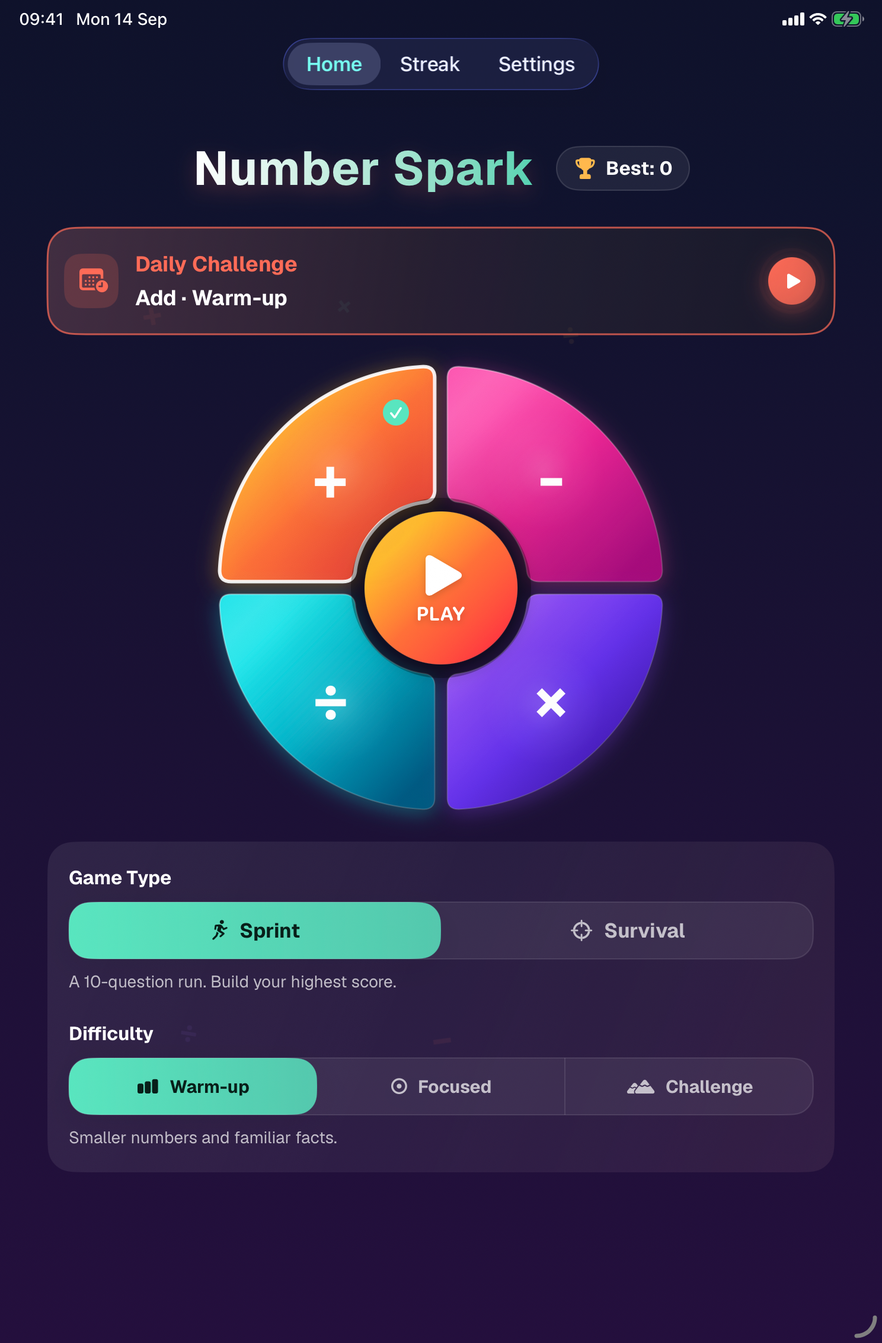
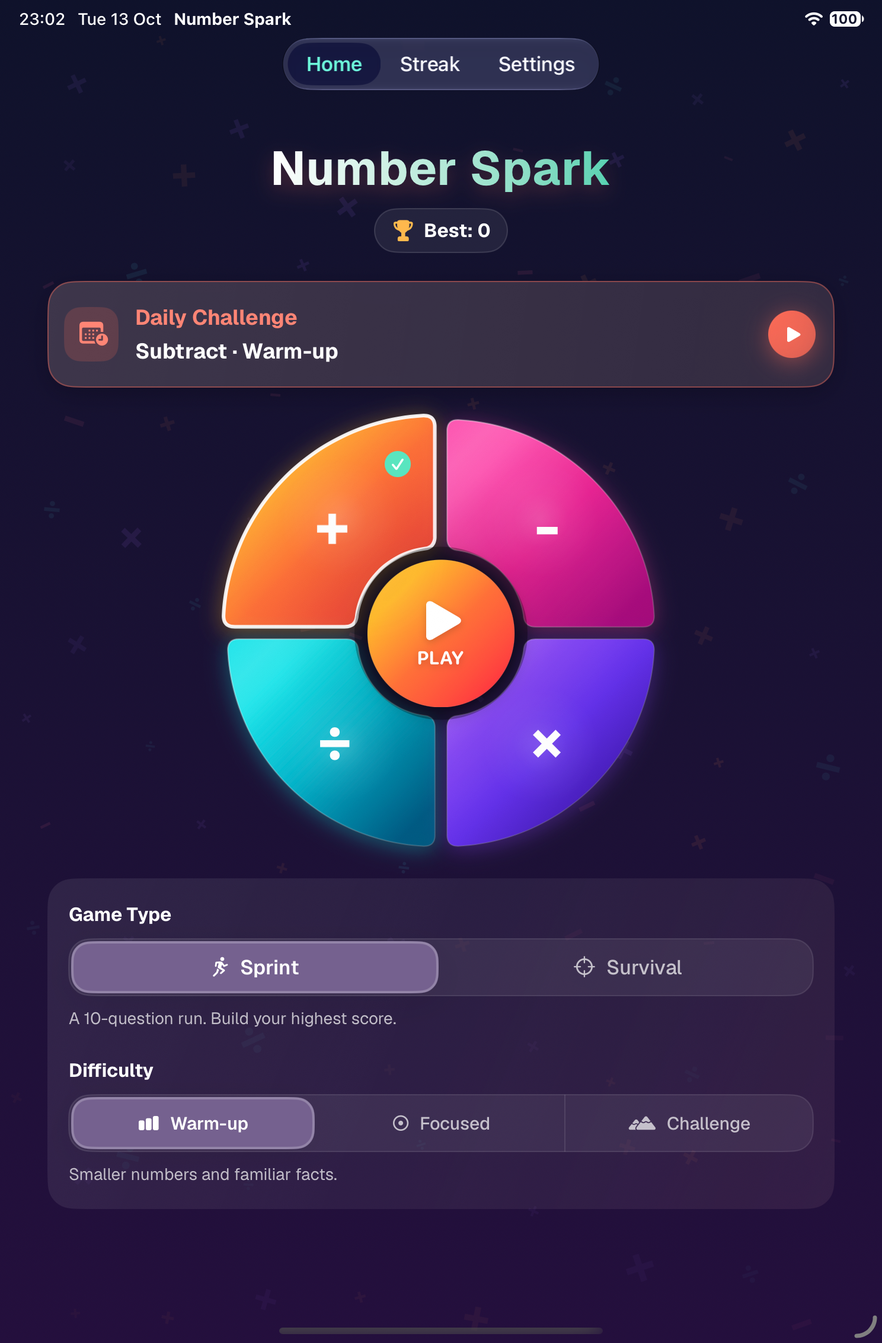
Update Number Spark 1.5 screenshots and metadata

diff --git a/number-circuit/index.html b/number-circuit/index.html
@@ -3,9 +3,9 @@
 <head>
 <meta charset="UTF-8">
 <meta name="viewport" content="width=device-width, initial-scale=1.0">
-<title>Number Spark: Math Puzzle</title>
+<title>Number Spark: Math Puzzles</title>
 <link rel="stylesheet" href="../style.css?v=20260910">
-<meta name="description" content="Make mental math part of your day with Number Spark: Math Puzzle for iPhone and iPad.">
+<meta name="description" content="Make mental math part of your day with Number Spark: Math Puzzles for iPhone and iPad.">
 <link rel="icon" href="../icon.png">
 </head>
 <body class="detail-circuit">
@@ -14,13 +14,13 @@
   <a class="back-link" href="../index.html">&larr; All apps</a>
 
   <div class="app-id">
-    <img src="icon.png" alt="Number Spark: Math Puzzle icon">
+    <img src="icon.png" alt="Number Spark: Math Puzzles icon">
     <div class="name">
-      <strong>Number Spark: Math Puzzle</strong>
+      <strong>Number Spark: Math Puzzles</strong>
     </div>
   </div>
 
-  <h1>Number Spark: Math Puzzle</h1>
+  <h1>Number Spark: Math Puzzles</h1>
   <p class="tagline">Make mental math part of your day.</p>
 
   <div class="download-cta">
@@ -36,50 +36,59 @@
 
   <div data-screenshot-gallery>
     <div class="screenshots" data-device="iPhone" aria-label="iPhone screenshots">
-      <img src="metadata/screenshots/iphone/app-store/01-themes.png" alt="Number Spark: Math Puzzle iPhone App Store image: Make It Yours — three themes" loading="lazy">
-      <img src="metadata/screenshots/iphone/app-store/02-daily-challenge.png" alt="Number Spark: Math Puzzle iPhone App Store image: A Challenge Every Day" loading="lazy">
-      <img src="metadata/screenshots/iphone/app-store/03-mental-math.png" alt="Number Spark: Math Puzzle iPhone App Store image: Make Mental Math Fun" loading="lazy">
-      <img src="metadata/screenshots/iphone/app-store/04-personal-best.png" alt="Number Spark: Math Puzzle iPhone App Store image: Chase Your Best" loading="lazy">
-      <img src="metadata/screenshots/iphone/app-store/05-choose-challenge.png" alt="Number Spark: Math Puzzle iPhone App Store image: Find Your Challenge" loading="lazy">
-      <img src="metadata/screenshots/iphone/app-store/06-daily-streak.png" alt="Number Spark: Math Puzzle iPhone App Store image: Build Your Daily Streak" loading="lazy">
+      <img src="metadata/screenshots/iphone/01-home.png" alt="Number Spark iPhone: Home with Daily Challenge, operation selector, game modes, and difficulty" loading="lazy">
+      <img src="metadata/screenshots/iphone/02-gameplay.png" alt="Number Spark iPhone: timed multiplication gameplay with answer keypad" loading="lazy">
+      <img src="metadata/screenshots/iphone/03-results.png" alt="Number Spark iPhone: Results with score, answer review, and replay" loading="lazy">
+      <img src="metadata/screenshots/iphone/04-streak.png" alt="Number Spark iPhone: Daily Streak calendar" loading="lazy">
+      <img src="metadata/screenshots/iphone/05-pleasant.png" alt="Number Spark iPhone: Home in the Pleasant theme, included with Pro" loading="lazy">
+      <img src="metadata/screenshots/iphone/06-minimal.png" alt="Number Spark iPhone: Home in the Minimal theme, included with Pro" loading="lazy">
     </div>
     <div class="screenshots" data-device="iPad" aria-label="iPad screenshots">
-      <img src="metadata/screenshots/ipad/app-store/01-themes.png" alt="Number Spark: Math Puzzle iPad App Store image: Make It Yours — three themes" loading="lazy">
-      <img src="metadata/screenshots/ipad/app-store/02-daily-challenge.png" alt="Number Spark: Math Puzzle iPad App Store image: A Challenge Every Day" loading="lazy">
-      <img src="metadata/screenshots/ipad/app-store/03-mental-math.png" alt="Number Spark: Math Puzzle iPad App Store image: Make Mental Math Fun" loading="lazy">
-      <img src="metadata/screenshots/ipad/app-store/04-personal-best.png" alt="Number Spark: Math Puzzle iPad App Store image: Chase Your Best" loading="lazy">
-      <img src="metadata/screenshots/ipad/app-store/05-choose-challenge.png" alt="Number Spark: Math Puzzle iPad App Store image: Find Your Challenge" loading="lazy">
-      <img src="metadata/screenshots/ipad/app-store/06-daily-streak.png" alt="Number Spark: Math Puzzle iPad App Store image: Build Your Daily Streak" loading="lazy">
+      <img src="metadata/screenshots/ipad/01-home.png" alt="Number Spark iPad: Home with Daily Challenge, operation selector, game modes, and difficulty" loading="lazy">
+      <img src="metadata/screenshots/ipad/02-gameplay.png" alt="Number Spark iPad: timed multiplication gameplay with answer keypad" loading="lazy">
+      <img src="metadata/screenshots/ipad/03-results.png" alt="Number Spark iPad: Results with score, answer review, and replay" loading="lazy">
+      <img src="metadata/screenshots/ipad/04-streak.png" alt="Number Spark iPad: Daily Streak calendar" loading="lazy">
+      <img src="metadata/screenshots/ipad/05-pleasant.png" alt="Number Spark iPad: Home in the Pleasant theme, included with Pro" loading="lazy">
+      <img src="metadata/screenshots/ipad/06-minimal.png" alt="Number Spark iPad: Home in the Minimal theme, included with Pro" loading="lazy">
+    </div>
+    <div class="screenshots" data-device="iPhone Duo" aria-label="iPhone Duo screenshots">
+      <img src="metadata/screenshots/duo/01-home-vibrant.png" alt="Number Spark iPhone Duo: closed display: Home in Vibrant" loading="lazy">
+      <img src="metadata/screenshots/duo/02-home-pleasant.png" alt="Number Spark iPhone Duo: closed display: Home in Pleasant, included with Pro" loading="lazy">
+      <img src="metadata/screenshots/duo/03-home-minimal.png" alt="Number Spark iPhone Duo: closed display: Home in Minimal, included with Pro" loading="lazy">
+      <img src="metadata/screenshots/duo/04-gameplay.png" alt="Number Spark iPhone Duo: open landscape display: multiplication gameplay and keypad" loading="lazy">
+      <img src="metadata/screenshots/duo/05-results.png" alt="Number Spark iPhone Duo: open landscape display: Results and answer review" loading="lazy">
+      <img src="metadata/screenshots/duo/06-partial-home.png" alt="Number Spark iPhone Duo: partially folded landscape display: Home in Pleasant" loading="lazy">
+      <img src="metadata/screenshots/duo/07-streak.png" alt="Number Spark iPhone Duo: open portrait display: Daily Streak calendar" loading="lazy">
     </div>
   </div>
 
   <section>
-    <h2>About Number Spark: Math Puzzle</h2>
-    <p>Number Spark: Math Puzzle appears as <strong>Number Spark</strong> on your device. Make addition, subtraction, multiplication, and division part of your day with quick, repeatable challenges.</p>
+    <h2>About Number Spark: Math Puzzles</h2>
+    <p>Number Spark: Math Puzzles appears as <strong>Number Spark</strong> on your device. Make addition, subtraction, multiplication, and division part of your day with quick, repeatable challenges.</p>
   </section>
 
   <section>
     <h2>Features</h2>
     <p><strong>Make It Yours:</strong> Play with bold Vibrant colors, calm Pleasant greens, or a clean Minimal look that follows your device&#x27;s Light and Dark Mode. Vibrant is included with free play; Pleasant and Minimal are included with the optional one-time Pro unlock.</p>
-    <p><strong>A Challenge Every Day:</strong> Get a personalized Daily Challenge based on your recent play. Track completed days in your calendar, build your daily streak, and catch up on challenges you missed. Turn on an optional reminder in Settings and choose a time that suits you. Daily progress is personal and stays on your device.</p>
+    <p><strong>A Challenge Every Day:</strong> Get a varied, personalized Daily Challenge based on your recent answers and practice history. See why its operation and difficulty were chosen before you start. Each day keeps the same challenge when you return, and missed days stay available for catch-up. Track completed days, build your streak, and turn on an optional reminder that skips completed days. Daily progress is personal and stays on your device.</p>
     <p><strong>Two Ways To Play:</strong> Sprint: take on a 10-question run against the clock.<br>Survival: keep going as the time allowed for each question gets shorter.</p>
     <p><strong>Find Your Challenge:</strong> Practice all four operations at Warm-up, Focused, or Challenge difficulty. Choose a comfortable starting point or push yourself with tougher numbers.</p>
-    <p><strong>Chase Your Best:</strong> Earn bonuses for quick answers and consecutive correct answers. Track your best scores for each operation, mode, and difficulty, then review your answers after each run. Three hearts give you room to recover, and mistakes reveal the correct answer.</p>
-    <p><strong>Made for iPhone and iPad:</strong> Play with layouts that adapt to your screen and available window. Use the on-screen keypad or a hardware keyboard, and adjust haptic feedback in Settings.</p>
+    <p><strong>Chase Your Best:</strong> Earn bonuses for quick answers and consecutive correct answers. Track your best scores for each operation, mode, and difficulty, then review your answers after each run. Celebrate perfect runs, new bests, and daily completions with lively visual feedback. Three hearts give you room to recover, and mistakes reveal the correct answer.</p>
+    <p><strong>Made for iPhone and iPad:</strong> Play with layouts that adapt to your screen and available window, including partially folded iPhone Duo displays. Use the on-screen keypad or a hardware keyboard, and adjust haptic feedback in Settings.</p>
     <p><strong>Optional Game Center:</strong> Compare regular Sprint and Survival scores on Game Center leaderboards. Daily Challenges remain personal, and you can play without Game Center.</p>
     <p><strong>Free Daily Play:</strong> Start with five free runs per day. The optional one-time Number Spark Pro purchase unlocks unlimited play and the Pleasant and Minimal themes. No subscription. Optional tips support development and do not unlock features.</p>
   </section>
 
   <section>
     <h2>Frequently asked questions</h2>
-    <details><summary>Why does the app say Number Spark?</summary><p>Number Spark: Math Puzzle is the App Store name. On your device and inside the app, it is called Number Spark.</p></details>
+    <details><summary>Why does the app say Number Spark?</summary><p>Number Spark: Math Puzzles is the App Store name. On your device and inside the app, it is called Number Spark.</p></details>
     <details><summary>Is it free to play?</summary><p>You get five free runs per local calendar day, shared across regular runs, Daily Challenges, catch-up, and replays. The allowance resets each day.</p></details>
     <details><summary>What does Number Spark Pro include?</summary><p>The optional one-time purchase unlocks unlimited play and the Pleasant and Minimal themes. Vibrant is included with free play. There is no subscription; optional tips support development and do not unlock features.</p></details>
     <details><summary>Do I need an account or internet connection?</summary><p>No account is required for local gameplay, which works offline. Purchases, restoring purchases, and optional Game Center services use Apple services.</p></details>
     <details><summary>How do Sprint and Survival work?</summary><p>Sprint is a 10-question run. Survival keeps going as the time allowed for each question gets shorter. A wrong answer or timeout costs one of three hearts and reveals the correct answer.</p></details>
-    <details><summary>Can I catch up on missed Daily Challenges?</summary><p>Yes. Open the Streak tab and select a past day to catch up. Daily Challenges use your recent play to choose an operation and difficulty. Completed days count toward your streak, and daily results stay personal rather than going to leaderboards.</p></details>
-    <details><summary>How do Daily Challenge reminders work?</summary><p>In Settings, turn on Daily Challenge Reminder and choose a local time. The reminder is optional and scheduled on your device; you can turn it off at any time. iOS asks for notification permission only when you opt in.</p></details>
-    <details><summary>Does it work on iPad?</summary><p>Yes. Layouts adapt to iPhone, iPad, and the available window. You can use the on-screen keypad or a hardware keyboard.</p></details>
+    <details><summary>Can I catch up on missed Daily Challenges?</summary><p>Yes. Open the Streak tab and select a past day to catch up. Daily Challenges use your recent answers and practice history to choose an operation and difficulty. Open a day to see why its challenge was chosen; it stays the same when you return. Completed days count toward your streak, and daily results stay personal rather than going to leaderboards.</p></details>
+    <details><summary>How do Daily Challenge reminders work?</summary><p>In Settings, turn on Daily Challenge Reminder and choose a local time. The reminder is optional and scheduled on your device. Completing today’s challenge before delivery skips that day’s reminder. You can turn reminders off at any time. iOS asks for notification permission only when you opt in.</p></details>
+    <details><summary>Does it work on iPad?</summary><p>Yes. Layouts adapt to iPhone, iPad, and the available window, including partially folded iPhone Duo displays. You can use the on-screen keypad or a hardware keyboard.</p></details>
     <details><summary>Are there ads or tracking?</summary><p>There are no ads, analytics, or tracking SDKs. Scores, daily history, and settings stay locally on your device. Apple handles purchases and optional Game Center services.</p></details>
   </section>
 
@@ -90,7 +99,7 @@
   </nav>
 
   <footer>
-    Number Spark: Math Puzzle · &copy; <span id="year"></span>
+    Number Spark: Math Puzzles · &copy; <span id="year"></span>
   </footer>
 
 </div>

diff --git a/index.html b/index.html
@@ -1,10 +1,10 @@
 <!DOCTYPE html>
-<html lang="en"><head><meta charset="UTF-8"><meta name="viewport" content="width=device-width, initial-scale=1.0"><meta name="description" content="Independent apps by Srinivas. Sharpen your mental math with Number Spark: Math Puzzle and make sense of everyday spending with Spendra."><meta name="theme-color" content="#f8faf8"><title>Srinivas’s App Lab — Apps worth a tap.</title><link rel="icon" href="icon.png"><link rel="stylesheet" href="style.css?v=20260910-1"></head>
+<html lang="en"><head><meta charset="UTF-8"><meta name="viewport" content="width=device-width, initial-scale=1.0"><meta name="description" content="Independent apps by Srinivas. Sharpen your mental math with Number Spark: Math Puzzles and make sense of everyday spending with Spendra."><meta name="theme-color" content="#f8faf8"><title>Srinivas’s App Lab — Apps worth a tap.</title><link rel="icon" href="icon.png"><link rel="stylesheet" href="style.css?v=20260910-1"></head>
 <body class="portfolio"><a class="skip-link" href="#main">Skip to content</a>
 <header class="site-header shell"><div class="wordmark"><span class="brand-mark" aria-hidden="true"><span>a</span><svg viewBox="0 0 16 16" focusable="false"><path d="M4 12 12 4m-6 0h6v6"/></svg></span>app lab<span class="byline">by Srinivas</span></div><nav aria-label="Main navigation"><a href="#apps">The apps <span class="nav-count">02</span></a><a href="support.html">Support ↗</a></nav></header>
 <main id="main" class="shell"><section class="hero" aria-labelledby="hero-title"><div class="eyebrow">INDEPENDENTLY BUILT. THOUGHTFULLY MADE.</div><div class="hero-row"><h1 id="hero-title">Apps worth<br>a <span class="tap-word">tap.</span></h1><div class="hero-aside"><p>A little more focus.<br>A little less friction.<br>Apps for your everyday.</p><a class="round-link" href="#apps"><span>Find your next favorite</span><span class="circle-arrow" aria-hidden="true">↓</span></a></div></div></section>
 <section id="apps" class="collection" aria-labelledby="collection-title"><div class="section-label"><h2 id="collection-title">THE COLLECTION <span>/ 02</span></h2><span>Small apps. Big on the details.</span></div><ul class="app-grid">
-<li class="app-card circuit-card"><a class="card-link" href="number-circuit/index.html" aria-label="Explore Number Spark: Math Puzzle"></a><div class="card-top"><span class="category">PLAY · MENTAL MATH</span><span class="badge">New release</span></div><div class="card-intro"><div class="app-icon-wrap"><img class="app-icon" src="number-circuit/icon.png" alt="Number Spark: Math Puzzle icon" width="72" height="72"><a class="store-pill" href="https://apps.apple.com/app/id6809030586" aria-label="Get Number Spark: Math Puzzle on the App Store"><svg viewBox="0 0 384 512" aria-hidden="true"><path d="M318.7 268.7c-.2-36.7 16.4-64.4 50-84.8-18.8-26.9-47.2-41.7-84.7-44.6-35.5-2.8-74.3 20.7-88.5 20.7-15 0-49.4-19.7-76-19.7C63.3 141 4 184.8 4 273.5q0 39.3 14.4 81.2c12.8 36.7 59 126.7 107.2 125.2 25.2-.6 43-17.9 75.8-17.9 31.8 0 48.3 17.9 76.4 17.9 48.6-.7 90.4-82.5 102.6-119.3-65.2-30.7-61.7-90-61.7-91.9zm-56.6-164.2c27.3-32.4 24.8-61.9 24-72.5-24.1 1.4-52 16.4-67.9 34.9-17.5 19.8-27.8 44.3-25.6 71.9 26.1 2 49.9-11.4 69.5-34.3z"/></svg><span>GET</span></a></div><div class="app-info"><h3>Number Spark: Math Puzzle</h3><p>Make mental math<br>part of your day.</p></div></div><div class="app-art"><img class="shot shot-one" src="number-circuit/metadata/screenshots/iphone/01-home.png" alt="Number Spark: Math Puzzle daily challenge and game modes" width="276" height="600"><img class="shot shot-two" src="number-circuit/metadata/screenshots/iphone/02-gameplay.png" alt="Number Spark: Math Puzzle timed mental math gameplay" width="276" height="600"></div><div class="card-bottom"><span>Sprint. Survive. Beat your best.</span><span class="card-arrow" aria-hidden="true">↗</span></div></li>
+<li class="app-card circuit-card"><a class="card-link" href="number-circuit/index.html" aria-label="Explore Number Spark: Math Puzzles"></a><div class="card-top"><span class="category">PLAY · MENTAL MATH</span><span class="badge">iPhone &amp; iPad</span></div><div class="card-intro"><div class="app-icon-wrap"><img class="app-icon" src="number-circuit/icon.png" alt="Number Spark: Math Puzzles icon" width="72" height="72"><a class="store-pill" href="https://apps.apple.com/app/id6809030586" aria-label="Get Number Spark: Math Puzzles on the App Store"><svg viewBox="0 0 384 512" aria-hidden="true"><path d="M318.7 268.7c-.2-36.7 16.4-64.4 50-84.8-18.8-26.9-47.2-41.7-84.7-44.6-35.5-2.8-74.3 20.7-88.5 20.7-15 0-49.4-19.7-76-19.7C63.3 141 4 184.8 4 273.5q0 39.3 14.4 81.2c12.8 36.7 59 126.7 107.2 125.2 25.2-.6 43-17.9 75.8-17.9 31.8 0 48.3 17.9 76.4 17.9 48.6-.7 90.4-82.5 102.6-119.3-65.2-30.7-61.7-90-61.7-91.9zm-56.6-164.2c27.3-32.4 24.8-61.9 24-72.5-24.1 1.4-52 16.4-67.9 34.9-17.5 19.8-27.8 44.3-25.6 71.9 26.1 2 49.9-11.4 69.5-34.3z"/></svg><span>GET</span></a></div><div class="app-info"><h3>Number Spark: Math Puzzles</h3><p>Make mental math<br>part of your day.</p></div></div><div class="app-art"><img class="shot shot-one" src="number-circuit/metadata/screenshots/iphone/01-home.png" alt="Number Spark: Math Puzzles daily challenge and game modes" width="276" height="600"><img class="shot shot-two" src="number-circuit/metadata/screenshots/iphone/02-gameplay.png" alt="Number Spark: Math Puzzles timed mental math gameplay" width="276" height="600"></div><div class="card-bottom"><span>Sprint. Survive. Beat your best.</span><span class="card-arrow" aria-hidden="true">↗</span></div></li>
 <li class="app-card spendra-card"><a class="card-link" href="spendra/index.html" aria-label="Explore Spendra"></a><div class="card-top"><span class="category">LIFE · PERSONAL FINANCE</span><span class="badge">Available now</span></div><div class="card-intro"><div class="app-icon-wrap"><img class="app-icon" src="spendra/icon.png" alt="Spendra icon" width="72" height="72"><a class="store-pill" href="https://apps.apple.com/app/id6809037599" aria-label="Get Spendra on the App Store"><svg viewBox="0 0 384 512" aria-hidden="true"><path d="M318.7 268.7c-.2-36.7 16.4-64.4 50-84.8-18.8-26.9-47.2-41.7-84.7-44.6-35.5-2.8-74.3 20.7-88.5 20.7-15 0-49.4-19.7-76-19.7C63.3 141 4 184.8 4 273.5q0 39.3 14.4 81.2c12.8 36.7 59 126.7 107.2 125.2 25.2-.6 43-17.9 75.8-17.9 31.8 0 48.3 17.9 76.4 17.9 48.6-.7 90.4-82.5 102.6-119.3-65.2-30.7-61.7-90-61.7-91.9zm-56.6-164.2c27.3-32.4 24.8-61.9 24-72.5-24.1 1.4-52 16.4-67.9 34.9-17.5 19.8-27.8 44.3-25.6 71.9 26.1 2 49.9-11.4 69.5-34.3z"/></svg><span>GET</span></a></div><div class="app-info"><h3>Spendra</h3><p>Your spending.<br>A little clearer.</p></div></div><div class="app-art"><img class="shot shot-one" src="spendra/metadata/screenshots/1.png" alt="Spendra monthly spending dashboard and category breakdown" width="945" height="2048"><img class="shot shot-two" src="spendra/metadata/screenshots/3.png" alt="Spendra spending insights and trends" width="945" height="2048"></div><div class="card-bottom"><span>Track spending. Make room for more.</span><span class="card-arrow" aria-hidden="true">↗</span></div></li>
 </ul></section><div class="closing-note"><span class="note-index">NEXT UP</span><p>There’s more on the workbench.</p><span>More apps coming soon.</span></div></main>
 <footer class="site-footer shell"><div class="wordmark">app lab<span class="byline">by Srinivas</span></div><span>© <span id="year">2026</span> Srinivas</span><a href="support.html">Questions or feedback? ↗</a></footer><script src="site.js"></script></body></html>

diff --git a/number-circuit/privacy.html b/number-circuit/privacy.html
@@ -3,33 +3,33 @@
 <head>
 <meta charset="UTF-8">
 <meta name="viewport" content="width=device-width, initial-scale=1.0">
-<title>Privacy Policy — Number Spark: Math Puzzle</title>
+<title>Privacy Policy — Number Spark: Math Puzzles</title>
 <link rel="stylesheet" href="../style.css?v=20260910">
-<meta name="description" content="Privacy policy for Number Spark: Math Puzzle.">
+<meta name="description" content="Privacy policy for Number Spark: Math Puzzles.">
 <link rel="icon" href="../icon.png">
 </head>
 <body>
 <div class="wrap">
 
   <div class="app-id">
-    <img src="icon.png" alt="Number Spark: Math Puzzle icon">
+    <img src="icon.png" alt="Number Spark: Math Puzzles icon">
     <div class="name">
       Privacy Policy for
-      <strong>Number Spark: Math Puzzle</strong>
+      <strong>Number Spark: Math Puzzles</strong>
     </div>
   </div>
 
   <h1>Privacy Policy</h1>
-  <p class="tagline">Last updated: September 19, 2026</p>
+  <p class="tagline">Last updated: October 15, 2026</p>
 
   <section>
     <h2>What this covers</h2>
-    <p>Number Spark: Math Puzzle is displayed as Number Spark on your device. This policy explains what information Number Spark: Math Puzzle collects, how it's used, and who it's shared with.</p>
+    <p>Number Spark: Math Puzzles is displayed as Number Spark on your device. This policy explains what information Number Spark: Math Puzzles collects, how it's used, and who it's shared with.</p>
   </section>
 
   <section>
     <h2>Information we collect</h2>
-    <p>None. Number Spark: Math Puzzle does not collect, store, or transmit personal data for developer use. Scores, best runs, Daily Challenge history, settings, and an optional Daily Challenge reminder preference and time are stored locally on your device using Apple's standard on-device storage. The app contains no third-party analytics, advertising, or tracking SDKs.</p>
+    <p>None. Number Spark: Math Puzzles does not collect, store, or transmit personal data for developer use. Scores, best runs, Daily Challenge history, settings, and an optional Daily Challenge reminder preference and time are stored locally on your device using Apple's standard on-device storage. The app contains no third-party analytics, advertising, or tracking SDKs.</p>
   </section>
 
   <section>
@@ -39,17 +39,17 @@
 
   <section>
     <h2>Third parties</h2>
-    <p>Game Center is optional. If you choose to use it, authentication, leaderboard scores, and related service data are processed by Apple under <a href="https://www.apple.com/legal/privacy/">Apple's privacy policy</a>. Number Spark: Math Puzzle does not receive your Apple ID credentials. Daily Challenge reminders are optional, local notifications scheduled on your device; the app does not send reminder data to a developer service.</p>
+    <p>Game Center is optional. If you choose to use it, authentication, leaderboard scores, and related service data are processed by Apple under <a href="https://www.apple.com/legal/privacy/">Apple's privacy policy</a>. Number Spark: Math Puzzles does not receive your Apple ID credentials. Daily Challenge reminders are optional, local notifications scheduled on your device; the app does not send reminder data to a developer service.</p>
   </section>
 
   <section>
     <h2>Data retention &amp; deletion</h2>
-    <p>Deleting Number Spark: Math Puzzle deletes the data stored locally by the app. Apple may separately retain Game Center service data according to its own policies and your Game Center settings.</p>
+    <p>Deleting Number Spark: Math Puzzles deletes the data stored locally by the app. Apple may separately retain Game Center service data according to its own policies and your Game Center settings.</p>
   </section>
 
   <section>
     <h2>Children</h2>
-    <p>Number Spark: Math Puzzle is not specifically directed at children under 13.</p>
+    <p>Number Spark: Math Puzzles is not specifically directed at children under 13.</p>
   </section>
 
   <section>
@@ -60,13 +60,13 @@
   </section>
 
   <nav class="pages">
-    <a href="index.html">About Number Spark: Math Puzzle</a>
+    <a href="index.html">About Number Spark: Math Puzzles</a>
     <a href="../support.html">Support</a>
     <a href="../index.html">All apps</a>
   </nav>
 
   <footer>
-    Number Spark: Math Puzzle · &copy; <span id="year"></span>
+    Number Spark: Math Puzzles · &copy; <span id="year"></span>
   </footer>
 
 </div>

diff --git a/number-circuit/metadata/description.md b/number-circuit/metadata/description.md
@@ -1,17 +1,17 @@
 # App Store description
 
-- **Promotional text** (170 chars, editable without review): Build a Daily Challenge streak with optional reminders at your chosen time. Play five free runs each day, catch up on missed challenges, and explore three themes.
+- **Promotional text** (170 chars, editable without review): Make time for mental math with personalized Daily Challenges, quick Sprint and Survival runs, and layouts that fit your screen.
 - **Description:**
 
 Make mental math part of your day.
 
-Number Spark: Math Puzzle turns addition, subtraction, multiplication, and division into quick, repeatable challenges. Pick your pace, choose a theme, and see what you can do.
+Number Spark turns addition, subtraction, multiplication, and division into quick, repeatable challenges. Pick your pace, choose a theme, and see what you can do.
 
 MAKE IT YOURS
 Play with bold Vibrant colors, calm Pleasant greens, or a clean Minimal look that follows your device's Light and Dark Mode. Vibrant is included with free play; Pleasant and Minimal are included with the optional one-time Pro unlock.
 
 A CHALLENGE EVERY DAY
-Get a personalized Daily Challenge based on your recent play. Track completed days in your calendar, build your daily streak, and catch up on challenges you missed. Turn on an optional reminder in Settings and choose a time that suits you. Daily progress is personal and stays on your device.
+Get a varied, personalized Daily Challenge based on your recent answers and practice history. See why its operation and difficulty were chosen before you start. Each day keeps the same challenge when you return, and missed days stay available for catch-up. Track completed days, build your streak, and turn on an optional reminder that skips completed days. Daily progress is personal and stays on your device.
 
 TWO WAYS TO PLAY
 Sprint: take on a 10-question run against the clock.
@@ -21,10 +21,10 @@ FIND YOUR CHALLENGE
 Practice all four operations at Warm-up, Focused, or Challenge difficulty. Choose a comfortable starting point or push yourself with tougher numbers.
 
 CHASE YOUR BEST
-Earn bonuses for quick answers and consecutive correct answers. Track your best scores for each operation, mode, and difficulty, then review your answers after each run. Three hearts give you room to recover, and mistakes reveal the correct answer.
+Earn bonuses for quick answers and consecutive correct answers. Track your best scores for each operation, mode, and difficulty, then review your answers after each run. Celebrate perfect runs, new bests, and daily completions with lively visual feedback. Three hearts give you room to recover, and mistakes reveal the correct answer.
 
 MADE FOR iPHONE AND iPAD
-Play with layouts that adapt to your screen and available window. Use the on-screen keypad or a hardware keyboard, and adjust haptic feedback in Settings.
+Play with layouts that adapt to your screen and available window, including partially folded iPhone Duo displays. Use the on-screen keypad or a hardware keyboard, and adjust haptic feedback in Settings.
 
 OPTIONAL GAME CENTER
 Compare regular Sprint and Survival scores on Game Center leaderboards. Daily Challenges remain personal, and you can play without Game Center.
@@ -34,9 +34,14 @@ Start with five free runs per day. The optional one-time Number Spark Pro purcha
 
 No ads or tracking. Your scores, daily history, and settings are stored locally on your device. Purchases and optional Game Center services are handled by Apple.
 
-- **Keywords** (100 chars, comma-separated, no spaces needed): arithmetic,trainer,quiz,times,tables,multiplication,addition,subtraction,division,practice,speed
-- **What's New / release notes for this version:**
+- **Keywords** (100 chars, comma-separated, no spaces needed): quiz,times,tables,multiplication,addition,subtraction,division,practice,speed,brain,training,daily
+- **What's New / release notes for this version (1.5):**
 
-Stay on track with optional Daily Challenge reminders. Turn them on in Settings and choose a time that works for you.
+A clearer Home screen and more room to play.
 
-This update also refines the Home screen and makes it easier to jump into your next challenge.
+• A refreshed Daily Challenge card makes today's challenge easier to find.
+• Refined colors, text, and selected controls across Vibrant, Pleasant, and Minimal themes.
+• Improved layouts for larger text, smaller screens, and landscape play.
+• iPhone Duo layouts keep questions and answer controls clear of the fold, with more balanced screen regions.
+• Compact gameplay keeps the keypad and Submit together, with refined Home and Results layouts on iPhone and iPad.
+• Daily Challenges use recent practice more consistently when choosing your next difficulty.

diff --git a/number-circuit/metadata/screenshots/README.md b/number-circuit/metadata/screenshots/README.md
@@ -1,15 +1,38 @@
-# Product-page images
+# Product-page screenshots
 
-The product page uses the six current App Store marketing PNGs per device from
-`NumberCruncher/AppStore/1.1/draft 5/iPhone` and `iPad`. Draft 5 was prepared
-from fresh Number Spark 1.1 (build 5) simulator captures and replaces the older
-draft-2 gallery. Source provenance and checksums are recorded in draft 5's
-`README.md` and `validation.json`.
+Updated October 15, 2026 for Number Spark 1.5. The product page uses unmodified
+native simulator captures, grouped by iPhone, iPad, and iPhone Duo. The hub uses
+the same iPhone Home and gameplay captures. The app icon is unchanged and matches
+`iOS/NumberCircuit/Assets.xcassets/AppIcon.appiconset/AppIcon1024x1024.png`.
 
-Order: Make It Yours, A Challenge Every Day, Make Mental Math Fun, Chase Your
-Best, Find Your Challenge, Build Your Daily Streak.
+## Sources
 
-The `iphone/app-store` and `ipad/app-store` directories hold the validated final
-exports without modification. Their parent device directories hold the matching
-current raw captures; the hub uses the iPhone Home and gameplay captures. Older
-root-level images are historical assets.
+Paths below are relative to the NumberCruncher repository. The adjacent source
+`capture-manifest.jsonl` files record the simulator, source/binary hashes, theme,
+and capture settings. `sources.json` records each web copy's source and SHA-256.
+
+- iPhone Home, gameplay, Results, and Streak: October 14 captures from
+  `Marketing/Video/2026-10-14-cinema-v2/Captures/`, version 1.5 (2).
+- iPhone Pleasant and Minimal Home, and all three iPad Home themes:
+  `iOS/AppStore/1.5/draft 2/raw/`, version 1.5 (0), October 13.
+- iPad gameplay, Results, and Streak:
+  `iOS/AppStore/1.5/draft 1/raw/iPad/vibrant-final/`.
+- Duo closed Home (three themes), open gameplay/Results/Streak, and partially
+  folded Home: `iOS/AppStore/1.5/draft 2/raw/Duo/`, version 1.5 (0), October 13.
+
+All captures use dark appearance, default text size, deterministic fixture data,
+and settled decorative motion. Pro is enabled for capture; Pleasant and Minimal
+require the optional Pro purchase. Sample scores and history are fixtures.
+No generated device artwork or AI-created product pixels are used in the gallery.
+
+## Order and preserved assets
+
+The iPhone and iPad galleries show Home, gameplay, Results, Streak, Pleasant,
+and Minimal. The Duo gallery shows closed Home in all three themes, open
+landscape gameplay and Results, partially folded Home, and open portrait Streak.
+Native aspect ratios are preserved by the shared gallery styles and device tabs.
+
+The existing `iphone/app-store/`, `ipad/app-store/`, and root-level marketing
+images are retained as historical assets and are no longer referenced by the
+product page. Their older generation provenance is not evidence for these new
+native captures.

diff --git a/number-circuit/metadata/faq.md b/number-circuit/metadata/faq.md
@@ -1,7 +1,7 @@
 # FAQ
 
 - **Q: Why does the app say Number Spark?**
-  A: Number Spark: Math Puzzle is the App Store name. On your device and inside the app, it is called Number Spark.
+  A: Number Spark: Math Puzzles is the App Store name. On your device and inside the app, it is called Number Spark.
 - **Q: Is it free to play?**
   A: You get five free runs per local calendar day, shared across regular runs, Daily Challenges, catch-up, and replays. The allowance resets each day.
 - **Q: What does Number Spark Pro include?**
@@ -11,10 +11,10 @@
 - **Q: How do Sprint and Survival work?**
   A: Sprint is a 10-question run. Survival keeps going as the time allowed for each question gets shorter. A wrong answer or timeout costs one of three hearts and reveals the correct answer.
 - **Q: Can I catch up on missed Daily Challenges?**
-  A: Yes. Open the Streak tab and select a past day to catch up. Daily Challenges use your recent play to choose an operation and difficulty. Completed days count toward your streak, and daily results stay personal rather than going to leaderboards.
+  A: Yes. Open the Streak tab and select a past day to catch up. Daily Challenges use your recent answers and practice history to choose an operation and difficulty. Open a day to see why its challenge was chosen; it stays the same when you return. Completed days count toward your streak, and daily results stay personal rather than going to leaderboards.
 - **Q: How do Daily Challenge reminders work?**
-  A: In Settings, turn on Daily Challenge Reminder and choose a local time. The reminder is optional and scheduled on your device; you can turn it off at any time. iOS asks for notification permission only when you opt in.
+  A: In Settings, turn on Daily Challenge Reminder and choose a local time. The reminder is optional and scheduled on your device. Completing today’s challenge before delivery skips that day’s reminder. You can turn reminders off at any time. iOS asks for notification permission only when you opt in.
 - **Q: Does it work on iPad?**
-  A: Yes. Layouts adapt to iPhone, iPad, and the available window. You can use the on-screen keypad or a hardware keyboard.
+  A: Yes. Layouts adapt to iPhone, iPad, and the available window, including partially folded iPhone Duo displays. You can use the on-screen keypad or a hardware keyboard.
 - **Q: Are there ads or tracking?**
   A: There are no ads, analytics, or tracking SDKs. Scores, daily history, and settings stay locally on your device. Apple handles purchases and optional Game Center services.

diff --git a/number-circuit/metadata/app-info.md b/number-circuit/metadata/app-info.md
@@ -1,14 +1,14 @@
 # App info
 
-- **App name:** Number Spark: Math Puzzle
-- **Subtitle** (30 chars max, App Store): Fast Mental Math Challenges
+- **App name:** Number Spark: Math Puzzles
+- **Subtitle** (30 chars max, App Store): Mental Arithmetic Trainer
 - **One-line tagline** (used on the hub card): Make mental math part of your day.
 - **Category:** Games > Puzzle (secondary: Education)
 - **Marketing URL** (optional): https://nsdsrinivas.github.io/apps/number-circuit/index.html
-- **App Store URL** (optional): https://apps.apple.com/app/id6809030586 (linked ahead of approval at the user's request — the app is not yet live, so this may return an error until Apple approves it)
-- **Google Play URL** (optional): n/a — iOS only for now
-- **Real app icon:** copied from `NumberCircuit/Assets.xcassets/AppIcon.appiconset/AppIcon1024x1024.png` in the Number Spark: Math Puzzle repo
-- **Third-party acknowledgement:** Number Spark: Math Puzzle uses the Geist typeface. Copyright 2024 The Geist Project Authors. Geist is licensed under the SIL Open Font License, Version 1.1: https://openfontlicense.org/open-font-license-official-text/
+- **App Store URL** (optional): https://apps.apple.com/app/id6809030586
+- **Google Play URL** (optional):
+- **Real app icon:** copied from `iOS/NumberCircuit/Assets.xcassets/AppIcon.appiconset/AppIcon1024x1024.png` in the Number Spark: Math Puzzles repo
+- **Third-party acknowledgement:** Number Spark: Math Puzzles uses the Geist typeface. Copyright 2024 The Geist Project Authors. Geist is licensed under the SIL Open Font License, Version 1.1: https://openfontlicense.org/open-font-license-official-text/
 
 Support contact is shared across all apps — see the root `support.html`, not this file.
 

diff --git a/number-circuit/metadata/privacy-details.md b/number-circuit/metadata/privacy-details.md
@@ -1,6 +1,6 @@
 # Privacy details
 
-- **Does the app collect any data at all?** No — Number Spark: Math Puzzle does not collect, store, or transmit personal data for developer use.
+- **Does the app collect any data at all?** No — Number Spark: Math Puzzles does not collect, store, or transmit personal data for developer use.
 - **Information collected:** None by the developer. Scores, best runs, Daily Challenge history, settings, and an optional Daily Challenge reminder preference and time are stored locally on-device using Apple's standard on-device storage (`UserDefaults`). The app contains no third-party analytics, advertising, or tracking SDKs.
 - **Why each item is collected** (purpose for each item above): None — nothing is collected by the developer.
 - **Third-party services used** and what they receive: Game Center (Apple) is optional. If a player chooses to use it, authentication, leaderboard scores, and related service data are processed by Apple under Apple's own privacy policy (https://www.apple.com/legal/privacy/). The developer does not receive the player's Apple ID credentials. Daily Challenge reminders are optional, local notifications scheduled on the device; the app does not send reminder data to a developer service.
